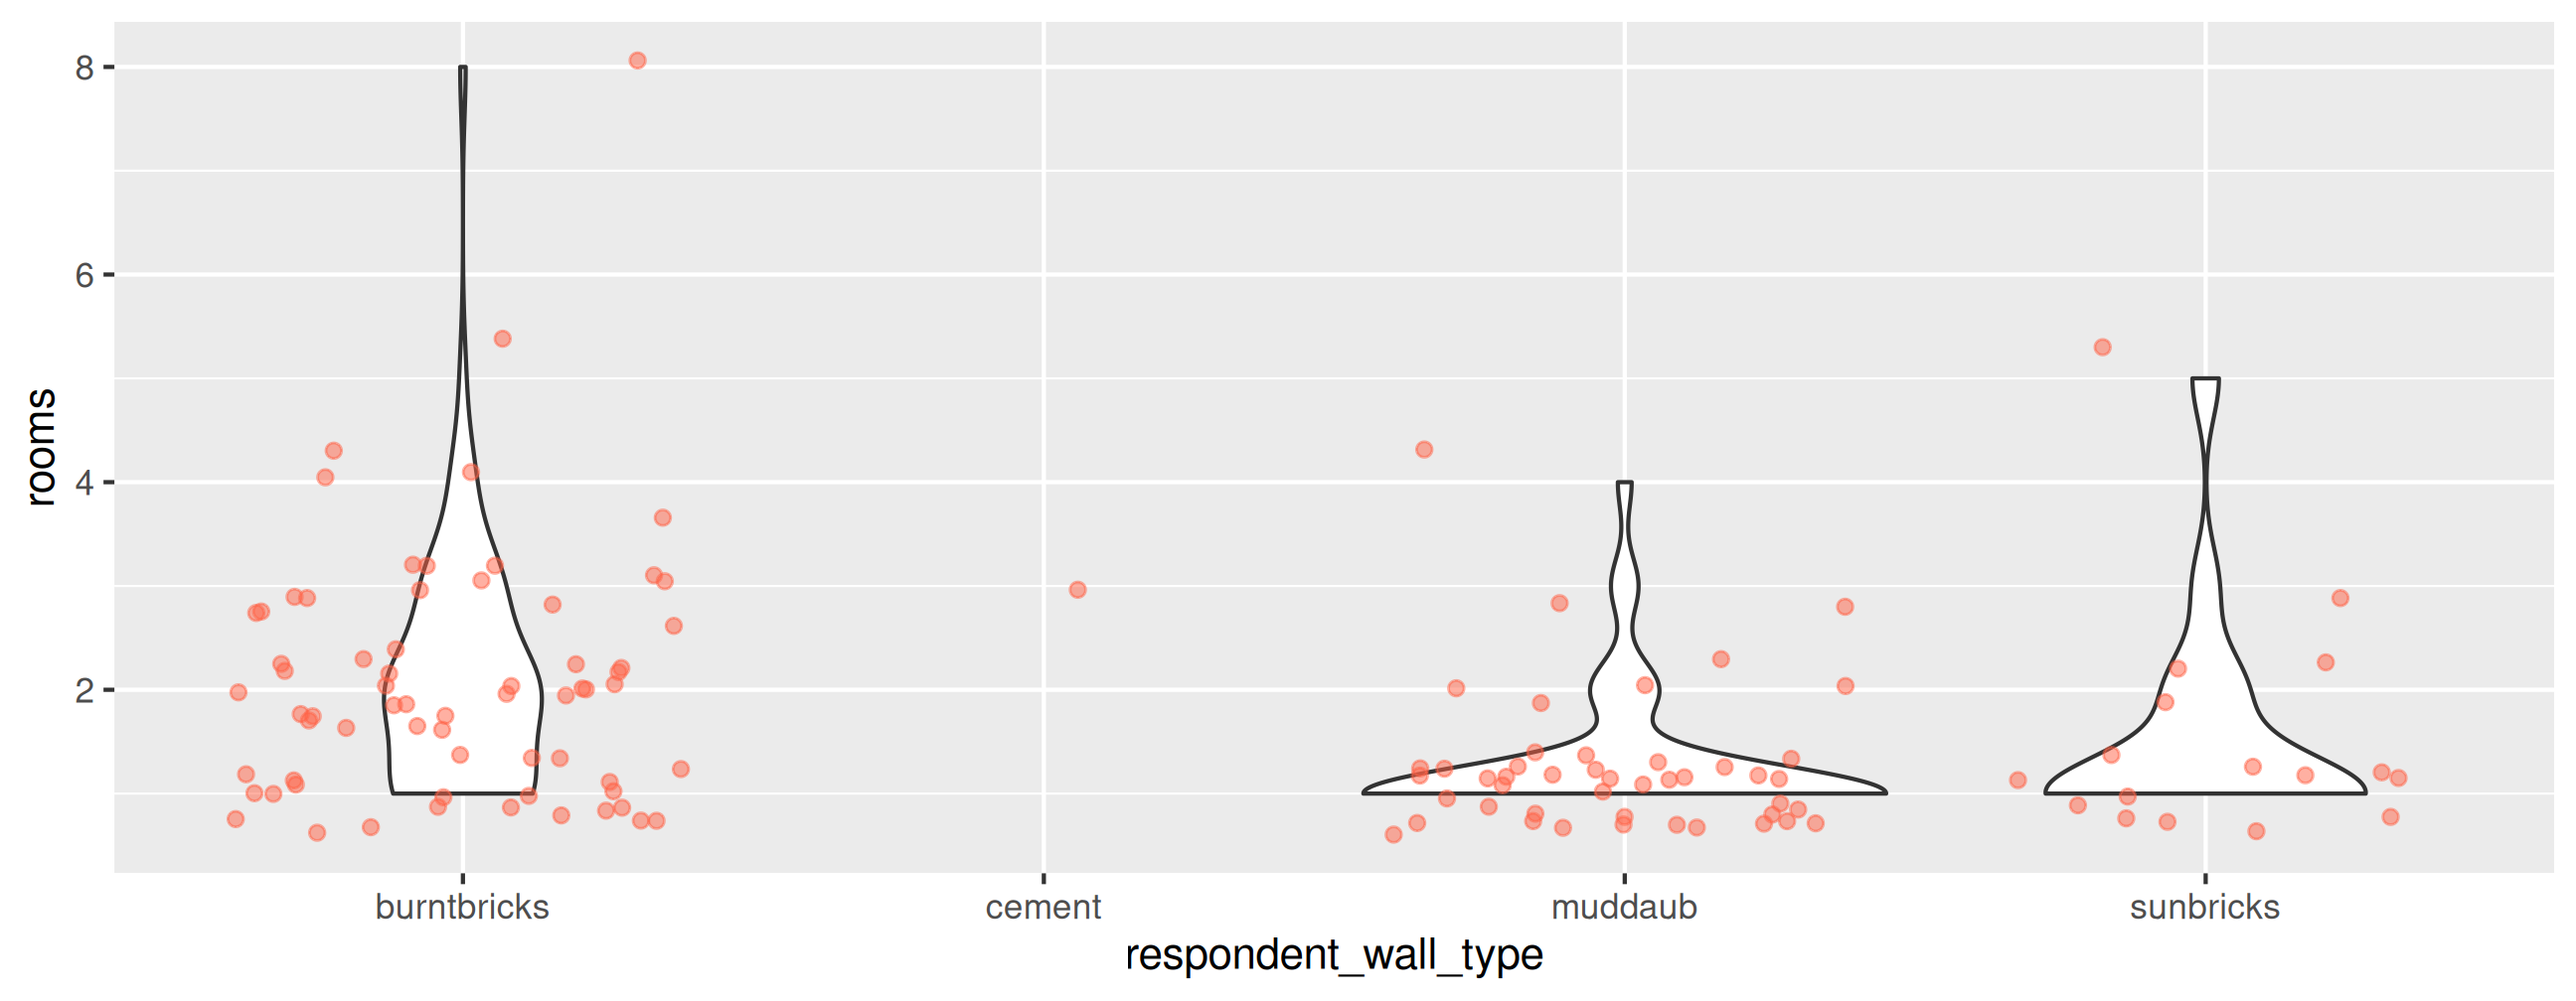
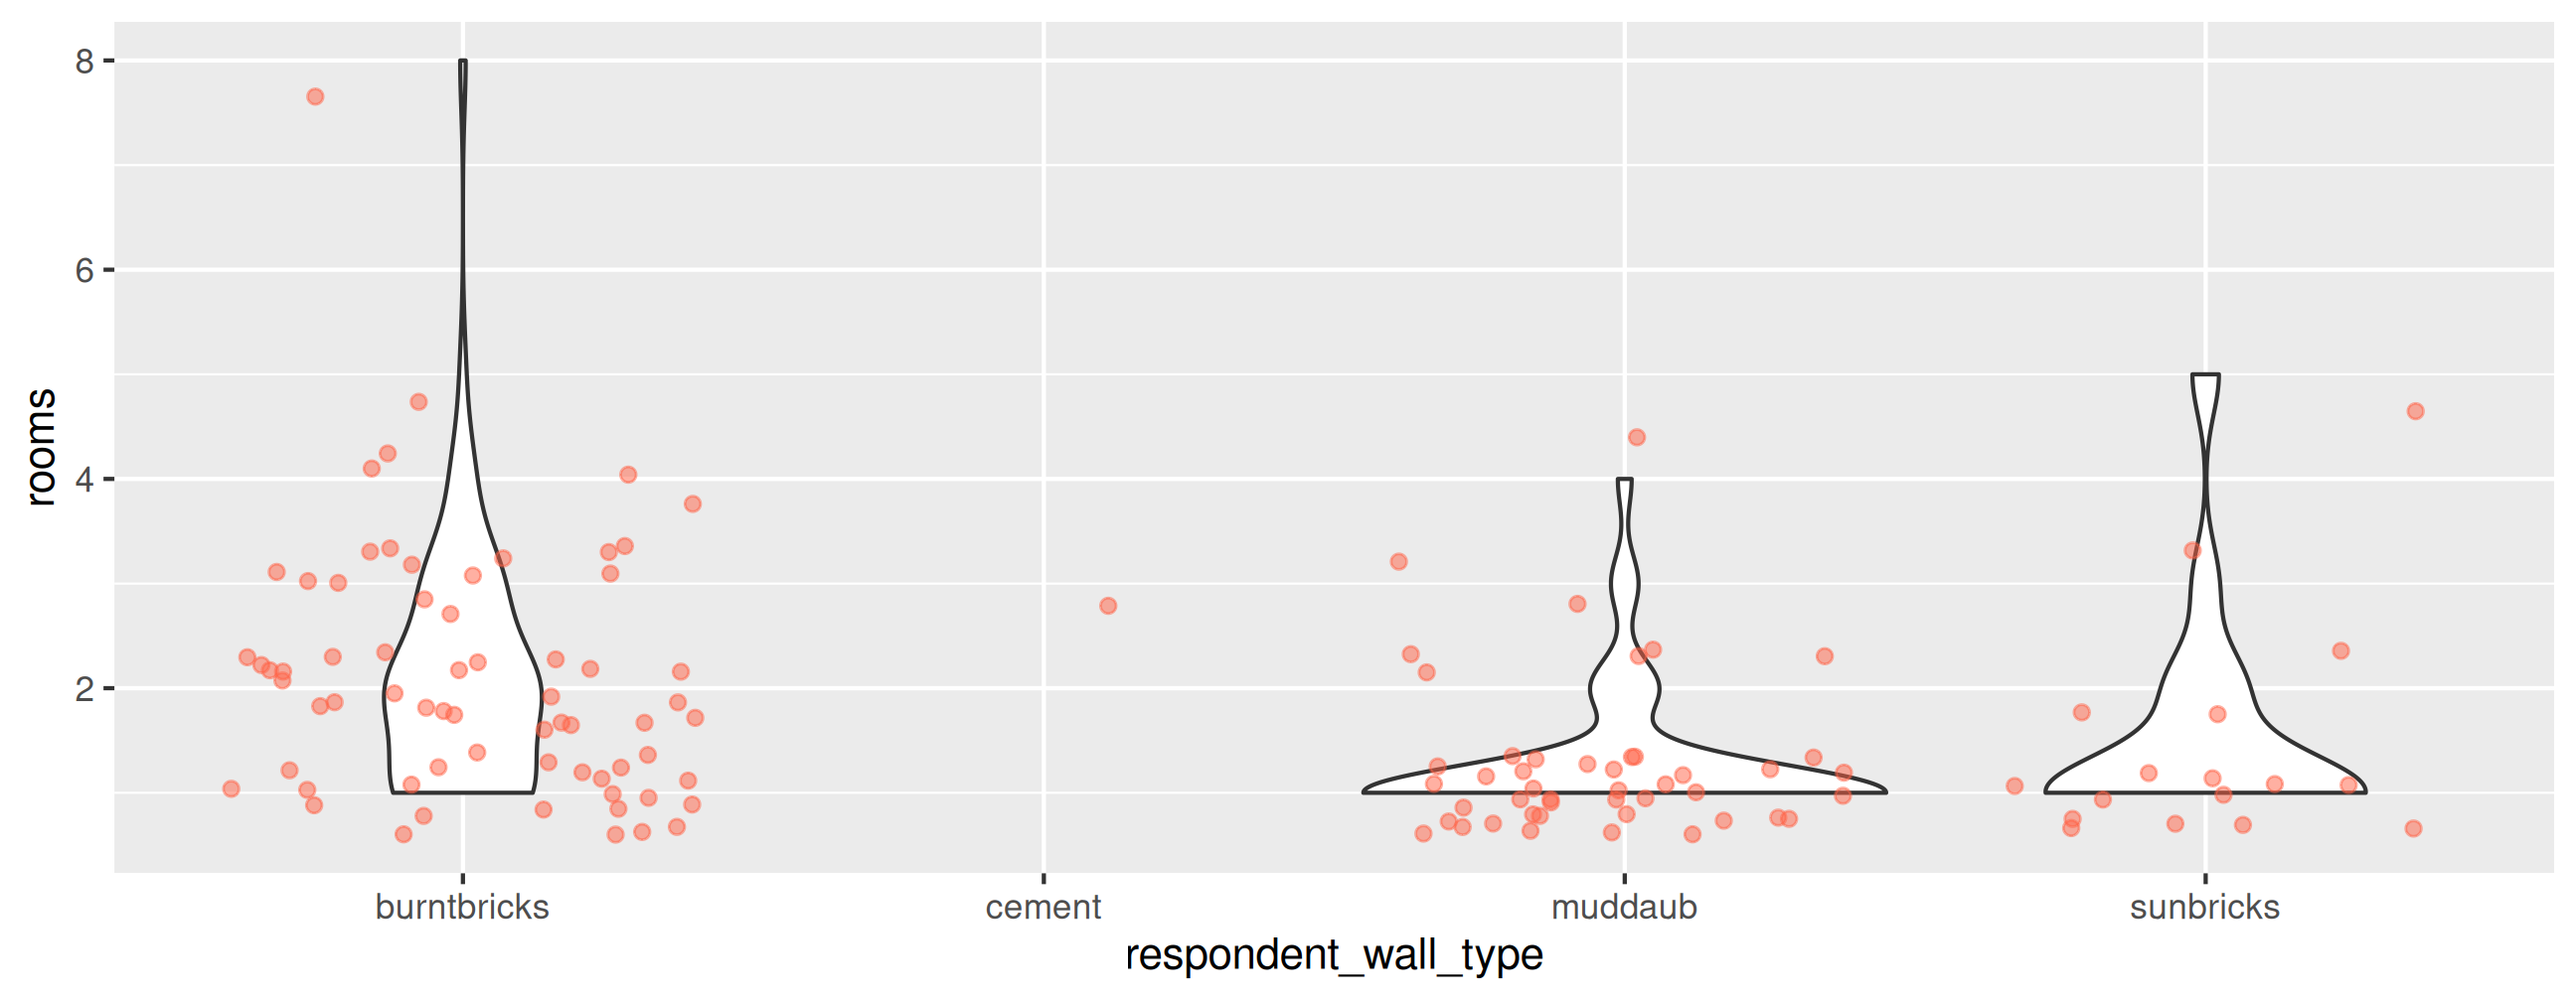
Built site for gh-pages

diff --git a/04_data-viz.html b/04_data-viz.html
@@ -6,8 +6,8 @@
 <script src="site_libs/quarto-html/tippy.umd.min.js"></script>
 <link href="site_libs/quarto-html/tippy.css" rel="stylesheet">
 <link href="site_libs/quarto-html/light-border.css" rel="stylesheet">
-<link href="site_libs/quarto-html/quarto-syntax-highlighting-7b89279ff1a6dce999919e0e67d4d9ec.css" rel="stylesheet" id="quarto-text-highlighting-styles"><meta charset="utf-8">
-  <meta name="generator" content="quarto-1.8.25">
+<link href="site_libs/quarto-html/quarto-syntax-highlighting-dc55a5b9e770e841cd82e46aadbfb9b0.css" rel="stylesheet" id="quarto-text-highlighting-styles"><meta charset="utf-8">
+  <meta name="generator" content="quarto-1.8.24">
 
   <meta name="dcterms.date" content="2025-10-09">
   <title>Data Visualisation with ggplot2</title>
@@ -352,7 +352,7 @@
 <p>Create a scatter plot of <code>rooms</code> by <code>village</code> with the <code>respondant_wall_type</code> showing in different colours.</p>
 <p>Does this seem like a good way to display the relationship between these variables?</p>
 <p>What other kinds of plots might you use to show this type of data?</p>
-<p></p><div class="countdown" id="timer_42869aeb" data-update-every="1" tabindex="0" style="right:0;bottom:0;"> <div class="countdown-controls"><button class="countdown-bump-down">−</button><button class="countdown-bump-up">+</button></div> <code class="countdown-time"><span class="countdown-digits minutes">06</span><span class="countdown-digits colon">:</span><span class="countdown-digits seconds">00</span></code> </div><p></p>
+<p></p><div class="countdown" id="timer_c0bdecb7" data-update-every="1" tabindex="0" style="right:0;bottom:0;"> <div class="countdown-controls"><button class="countdown-bump-down">−</button><button class="countdown-bump-up">+</button></div> <code class="countdown-time"><span class="countdown-digits minutes">06</span><span class="countdown-digits colon">:</span><span class="countdown-digits seconds">00</span></code> </div><p></p>
 </section>
 <section id="exercise-1-solution" class="slide level2 inverse smaller">
 <h2>Exercise 1: Solution</h2>
@@ -419,7 +419,7 @@ Figure&nbsp;1: This plot shows the relationship between the variables room and v
 <p>Boxplots are useful summaries, but hide the shape of the distribution. For example, if the distribution is bimodal, we would not see it in a boxplot.</p>
 <p>Replace the box plot with a violin plot<br>
 see <code>geom_violin()</code></p>
-<p></p><div class="countdown" id="timer_05b523b2" data-update-every="1" tabindex="0" style="right:0;bottom:0;"> <div class="countdown-controls"><button class="countdown-bump-down">−</button><button class="countdown-bump-up">+</button></div> <code class="countdown-time"><span class="countdown-digits minutes">04</span><span class="countdown-digits colon">:</span><span class="countdown-digits seconds">00</span></code> </div><p></p>
+<p></p><div class="countdown" id="timer_15cad90a" data-update-every="1" tabindex="0" style="right:0;bottom:0;"> <div class="countdown-controls"><button class="countdown-bump-down">−</button><button class="countdown-bump-up">+</button></div> <code class="countdown-time"><span class="countdown-digits minutes">04</span><span class="countdown-digits colon">:</span><span class="countdown-digits seconds">00</span></code> </div><p></p>
 </section>
 <section id="exercise-2-solution" class="slide level2 inverse">
 <h2>Exercise 2: Solution</h2>
@@ -437,7 +437,7 @@ see <code>geom_violin()</code></p>
 <p>Create a bar plot showing the proportion of respondents in each village who are or are not part of an irrigation association (<code>memb_assoc</code>).</p>
 <p>Include only respondents who answered that question in the calculations and plot.</p>
 <p>Which village had the lowest proportion of respondents in an irrigation association?</p>
-<p></p><div class="countdown" id="timer_f572350b" data-update-every="1" tabindex="0" style="right:0;bottom:0;"> <div class="countdown-controls"><button class="countdown-bump-down">−</button><button class="countdown-bump-up">+</button></div> <code class="countdown-time"><span class="countdown-digits minutes">08</span><span class="countdown-digits colon">:</span><span class="countdown-digits seconds">00</span></code> </div><p></p>
+<p></p><div class="countdown" id="timer_2b0e26b3" data-update-every="1" tabindex="0" style="right:0;bottom:0;"> <div class="countdown-controls"><button class="countdown-bump-down">−</button><button class="countdown-bump-up">+</button></div> <code class="countdown-time"><span class="countdown-digits minutes">08</span><span class="countdown-digits colon">:</span><span class="countdown-digits seconds">00</span></code> </div><p></p>
 </section>
 <section id="exercise-3-1" class="slide level2 inverse smaller" data-auto-animate="true">
 <h2 data-id="quarto-animate-title">Exercise 3</h2>
@@ -445,7 +445,7 @@ see <code>geom_violin()</code></p>
 <p>Create a bar plot showing the proportion of respondents in each village who are or are not part of an irrigation association (<code>memb_assoc</code>).</p>
 <p>Include only respondents who answered that question in the calculations and plot.</p>
 <p>Which village had the lowest proportion of respondents in an irrigation association?</p>
-<p></p><div class="countdown" id="timer_0abf89a6" data-update-every="1" tabindex="0" style="right:0;bottom:0;"> <div class="countdown-controls"><button class="countdown-bump-down">−</button><button class="countdown-bump-up">+</button></div> <code class="countdown-time"><span class="countdown-digits minutes">08</span><span class="countdown-digits colon">:</span><span class="countdown-digits seconds">00</span></code> </div><p></p>
+<p></p><div class="countdown" id="timer_95549582" data-update-every="1" tabindex="0" style="right:0;bottom:0;"> <div class="countdown-controls"><button class="countdown-bump-down">−</button><button class="countdown-bump-up">+</button></div> <code class="countdown-time"><span class="countdown-digits minutes">08</span><span class="countdown-digits colon">:</span><span class="countdown-digits seconds">00</span></code> </div><p></p>
 <h3 id="hint">Hint</h3>
 <div class="cell">
 <div class="code-copy-outer-scaffold"><div class="sourceCode cell-code" id="cb10"><pre class="sourceCode numberSource r number-lines code-with-copy" data-id="quarto-animate-code"><code class="sourceCode r hljs"><span id="cb10-1" class="hljs-ln-code"><a></a>percent_memb_assoc <span class="ot">&lt;-</span> interviews_plotting <span class="sc">%&gt;%</span></span>
@@ -477,7 +477,7 @@ see <code>geom_violin()</code></p>
 <p>⏰ <strong>4 mins</strong></p>
 <p>Experiment with at least two different themes. Build the previous plot using each of those themes.</p>
 <p>Which do you like best?</p>
-<p></p><div class="countdown" id="timer_7a4a91c0" data-update-every="1" tabindex="0" style="right:0;bottom:0;"> <div class="countdown-controls"><button class="countdown-bump-down">−</button><button class="countdown-bump-up">+</button></div> <code class="countdown-time"><span class="countdown-digits minutes">04</span><span class="countdown-digits colon">:</span><span class="countdown-digits seconds">00</span></code> </div><p></p>
+<p></p><div class="countdown" id="timer_009e882c" data-update-every="1" tabindex="0" style="right:0;bottom:0;"> <div class="countdown-controls"><button class="countdown-bump-down">−</button><button class="countdown-bump-up">+</button></div> <code class="countdown-time"><span class="countdown-digits minutes">04</span><span class="countdown-digits colon">:</span><span class="countdown-digits seconds">00</span></code> </div><p></p>
 <div class="fragment">
 <h3 id="hint-1">Hint</h3>
 <div class="columns">

diff --git a/05_quarto.html b/05_quarto.html
@@ -6,8 +6,8 @@
 <script src="site_libs/quarto-html/tippy.umd.min.js"></script>
 <link href="site_libs/quarto-html/tippy.css" rel="stylesheet">
 <link href="site_libs/quarto-html/light-border.css" rel="stylesheet">
-<link href="site_libs/quarto-html/quarto-syntax-highlighting-7b89279ff1a6dce999919e0e67d4d9ec.css" rel="stylesheet" id="quarto-text-highlighting-styles"><meta charset="utf-8">
-  <meta name="generator" content="quarto-1.8.25">
+<link href="site_libs/quarto-html/quarto-syntax-highlighting-dc55a5b9e770e841cd82e46aadbfb9b0.css" rel="stylesheet" id="quarto-text-highlighting-styles"><meta charset="utf-8">
+  <meta name="generator" content="quarto-1.8.24">
 
   <meta name="dcterms.date" content="2025-10-09">
   <title>Getting Started with Quarto</title>
@@ -168,7 +168,7 @@
 <p>Play around with the different options in the chunk with the code for the table, and re-Render to see what each option does to the output.</p>
 <p>What happens if you use <code>eval: false</code> and <code>echo: false</code>?</p>
 <p>What is the difference between this and <code>include: false</code>?</p>
-<p></p><div class="countdown" id="timer_deeebd3e" data-update-every="1" tabindex="0" style="right:0;bottom:0;"> <div class="countdown-controls"><button class="countdown-bump-down">−</button><button class="countdown-bump-up">+</button></div> <code class="countdown-time"><span class="countdown-digits minutes">04</span><span class="countdown-digits colon">:</span><span class="countdown-digits seconds">00</span></code> </div><p></p>
+<p></p><div class="countdown" id="timer_001d28ab" data-update-every="1" tabindex="0" style="right:0;bottom:0;"> <div class="countdown-controls"><button class="countdown-bump-down">−</button><button class="countdown-bump-up">+</button></div> <code class="countdown-time"><span class="countdown-digits minutes">04</span><span class="countdown-digits colon">:</span><span class="countdown-digits seconds">00</span></code> </div><p></p>
 <div class="fragment">
 <h3 class="inverse" id="solution">Solution</h3>
 <p>Create a chunk with <code>eval: false, echo: false</code></p>

diff --git a/site_libs/quarto-html/quarto-syntax-highlighting-dc55a5b9e770e841cd82e46aadbfb9b0.css b/site_libs/quarto-html/quarto-syntax-highlighting-dc55a5b9e770e841cd82e46aadbfb9b0.css
@@ -233,4 +233,4 @@ code span.wa {
   content: "</";
 }
 
-/*# sourceMappingURL=3944bc705cfaf4c80e56f77c5205168a.css.map */
+/*# sourceMappingURL=21f0b8dca5c347bd0a806dc2ce2adfe3.css.map */
